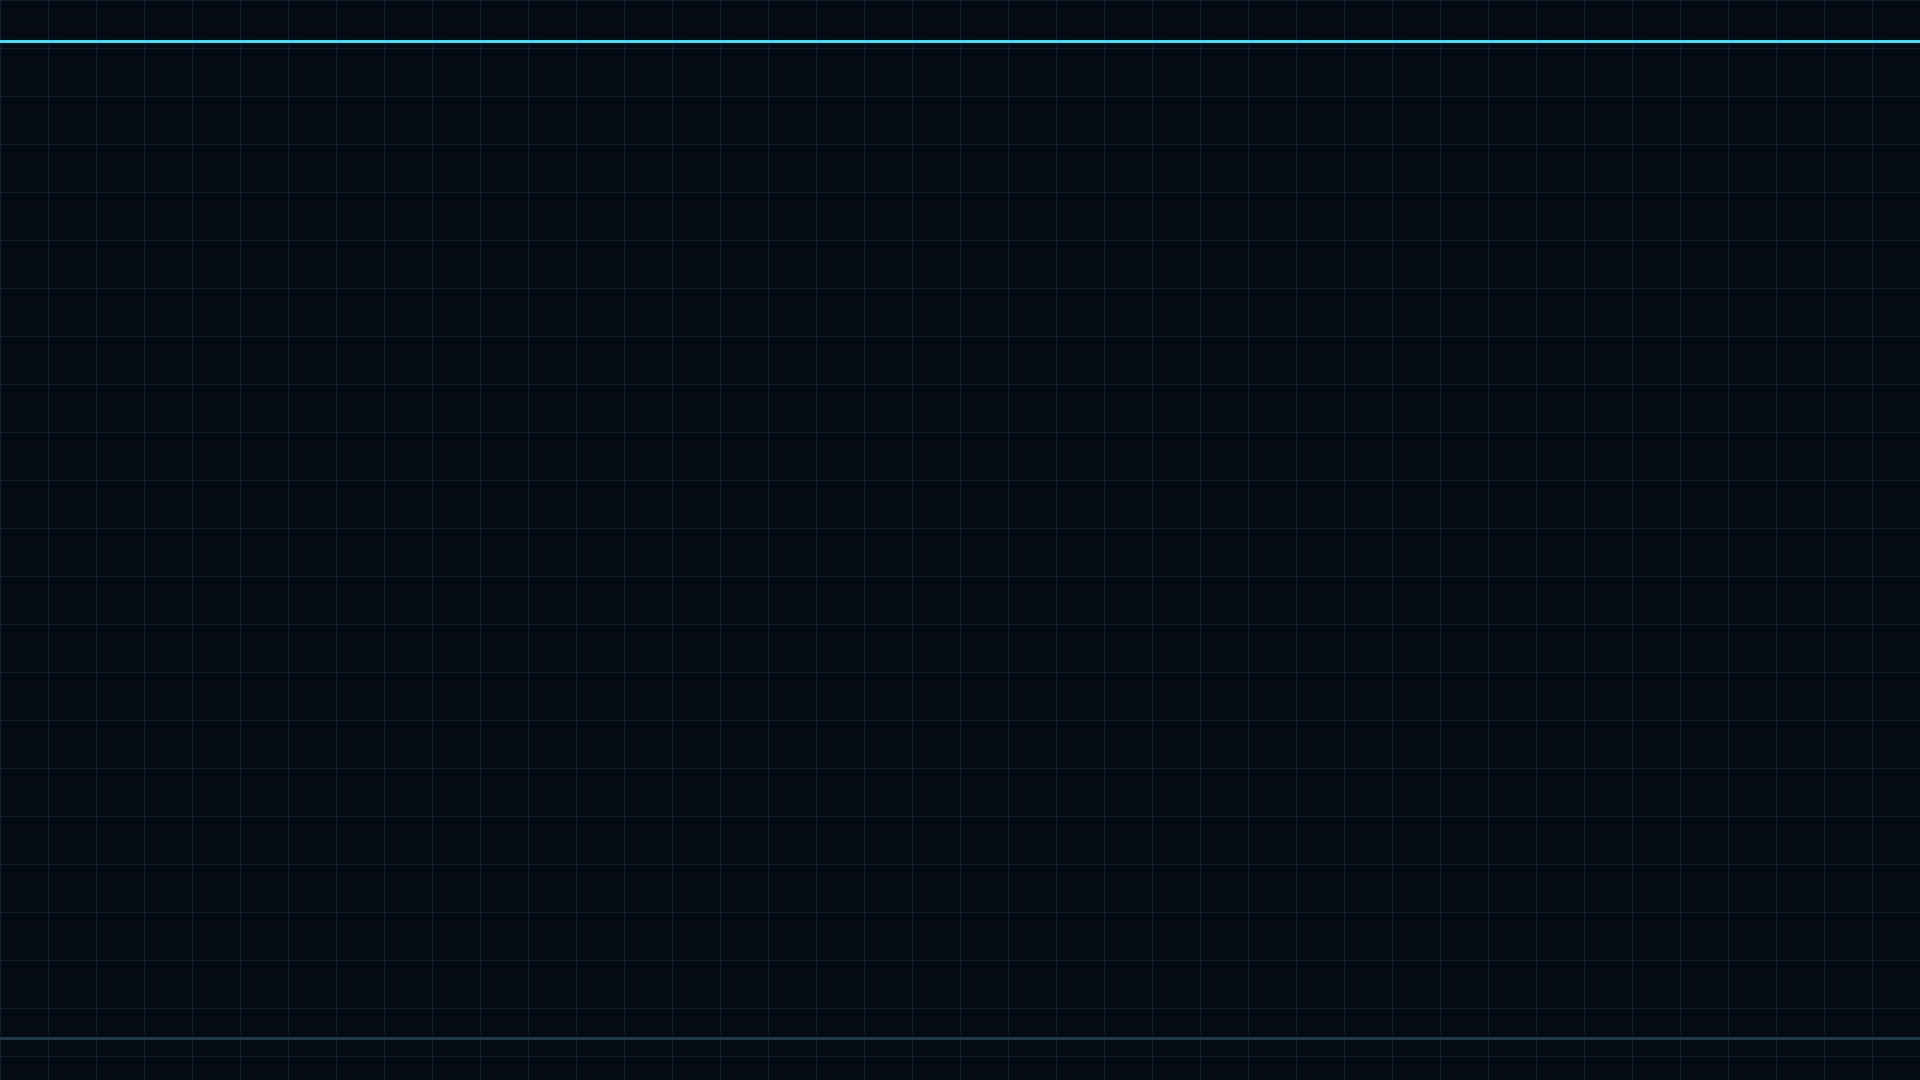
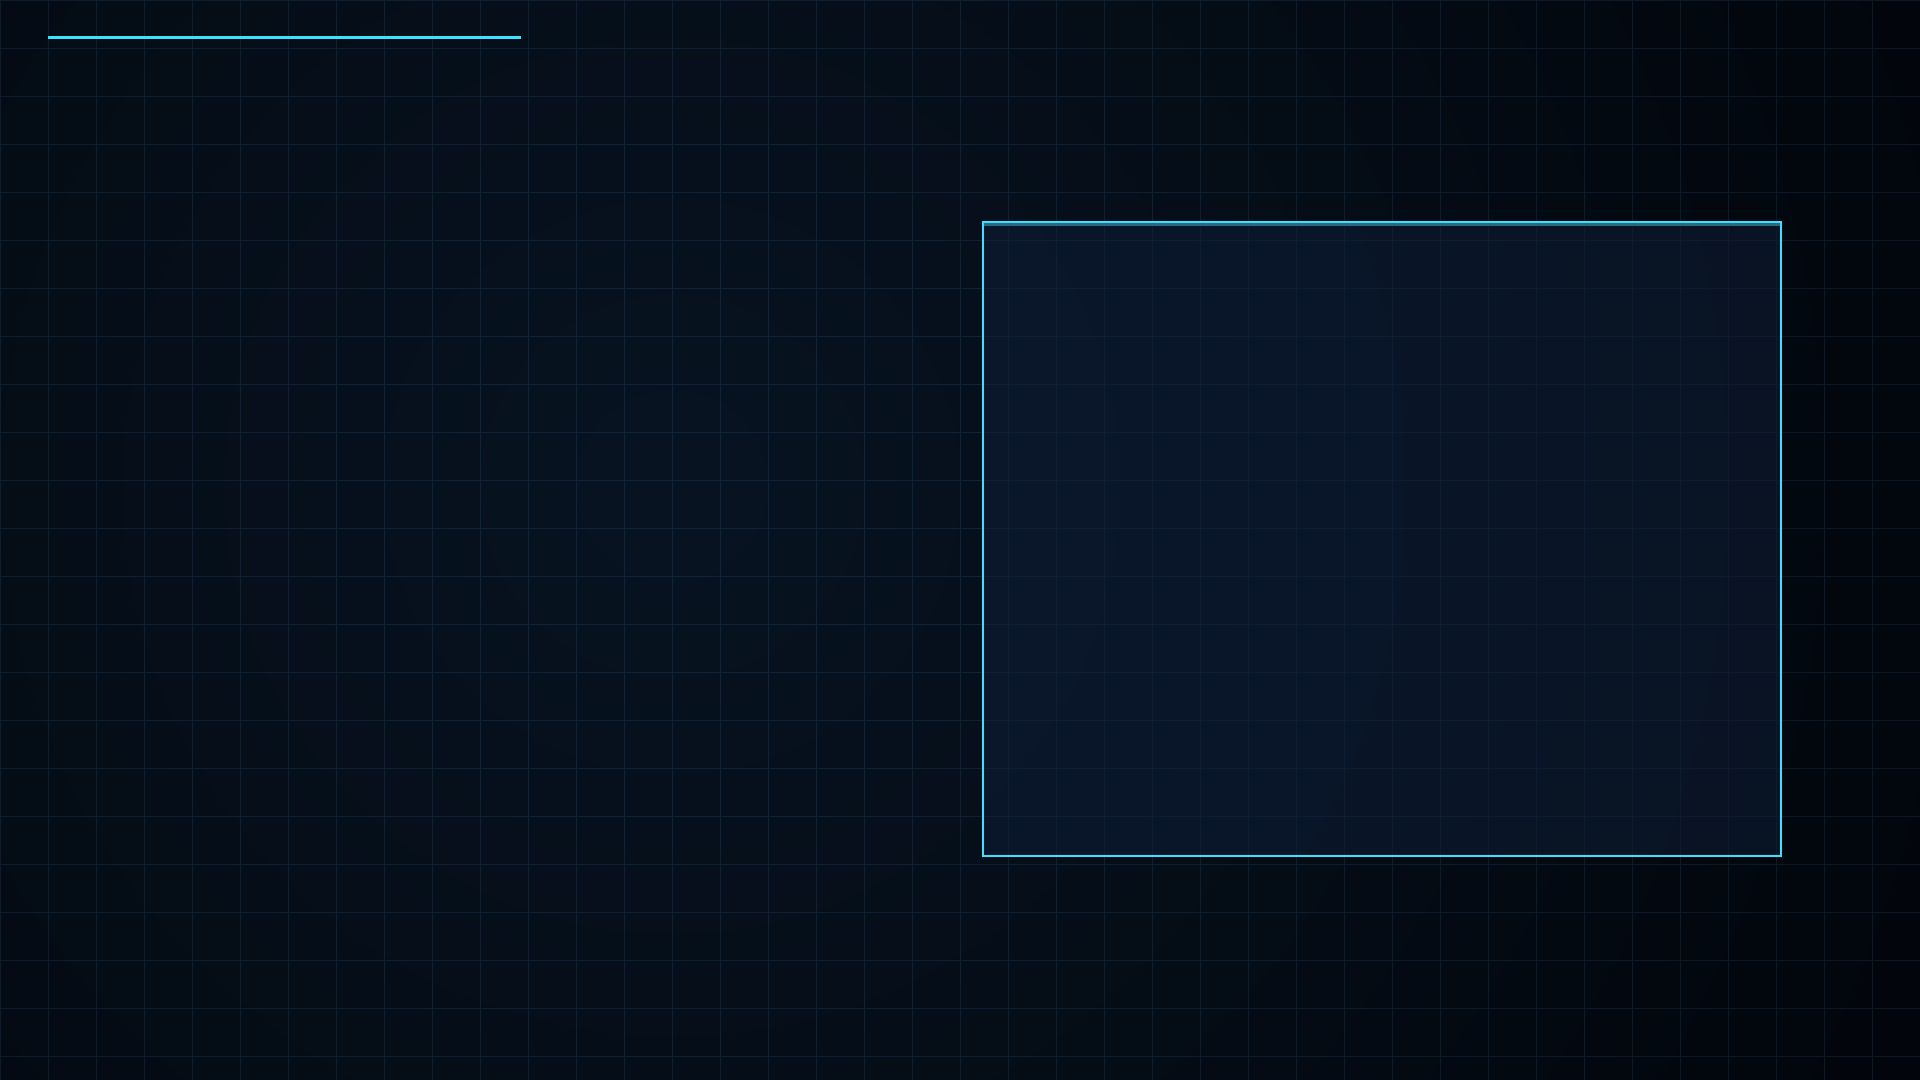
GRUB: master background + menu as overlay window
- theme.txt boot_menu as right-side window (~40%), not full-bleed
- background.png includes glass panel chrome aligned to menu rect
- Docs/canvas: same overlay pattern for splash/wizard/HUD

Changed region(s): [[0.5, 0.275, 0.5625, 0.6111], [0.5, 0.1833, 0.9375, 0.2139], [0.0, 0.0306, 0.2812, 0.0611]]

diff --git a/canvases/janis-live-distro.canvas.tsx b/canvases/janis-live-distro.canvas.tsx
@@ -67,9 +67,9 @@ export default function JanisLiveDistroCanvas() {
           <CardBody>
             <Stack gap={6}>
               <Text>background.png 1920×1080 = base di TUTTO il sistema</Text>
-              <Text>Stesso asset: GRUB → splash → wizard → HUD</Text>
-              <Text>selected_*.png + theme.txt in infra/grub/theme/</Text>
-              <Text tone="secondary">Solo layer sopra (neuroni, risorse) — non un altro mood</Text>
+              <Text>Menu = finestra sovrapposta (boot_menu ~40% destra)</Text>
+              <Text>Stesso pattern: splash/wizard/HUD = base + overlay</Text>
+              <Text tone="secondary">theme.txt + cornice nel PNG — non menu full-bleed</Text>
             </Stack>
           </CardBody>
         </Card>
@@ -92,7 +92,12 @@ export default function JanisLiveDistroCanvas() {
       <Table
         headers={["Fase", "UI", "Tech", "Note"]}
         rows={[
-          ["GRUB", "Menu stilizzato + sfondo PNG", "infra/grub + build-iso.sh", "No Three.js"],
+          [
+            "GRUB",
+            "Master BG + menu finestra overlay",
+            "theme.txt boot_menu + background.png",
+            "No Three.js",
+          ],
           [
             "Kernel + live-boot",
             "Plymouth / quiet splash",

diff --git a/docs/LIVE-DISTRO.md b/docs/LIVE-DISTRO.md
@@ -51,21 +51,33 @@ Checklist in [`infra/grub/README.md`](../infra/grub/README.md).
 
 | Superficie | Uso del background |
 |------------|-------------------|
-| **GRUB** | Immagine desktop così com’è |
+| **GRUB** | Full-bleed master; **menu = finestra sovrapposta** (non full-screen) |
 | **Neuron splash / kiosk** | Stesso asset sotto i neuroni |
 | **Wizard setup** | Stesso base; sopra HUD risorse + chat + overlay |
 | **HUD runtime** | Stesso base (o layer blur/vignette), non un altro mood |
 
 Regole: palette/griglia del PNG GRUB = contratto UI; varianti solo come **layer**; riferimento **1920×1080**; cambiando il PNG GRUB si aggiorna l’identità di tutto il boot→desktop.
 
+### Menu GRUB = finestra overlay
+
+Come i pannelli del wizard/HUD: lo sfondo resta la scena; le scelte boot stanno in un **riquadro** sopra.
+
+| Pezzo | Spec |
+|-------|------|
+| Scena | `background.png` full 1920×1080 (griglia HUD, brand a sinistra) |
+| Finestra menu | `boot_menu` in `theme.txt`: ~`left=52% top=22% width=40% height=56%` |
+| Cornice | Disegnata nel PNG (vetro scuro + bordo cyan) allineata al riquadro menu |
+| Selezione | `selected_c.png` barra item dentro la finestra |
+| Runtime UI | Stesso pattern: background master + finestre `janis-panel` sovrapposte |
+
 | File | Spec |
 |------|------|
-| `theme/background.png` | 1920×1080 · `#050B12` · cyan `#3DE0FF` · griglia HUD · **master background** |
-| `theme/selected_c.png` (o set selected_*) | Barra selezione menu |
-| `theme/theme.txt` | title JANIS, colori chiari su scuro |
+| `theme/background.png` | Master 1920×1080 + zona pannello menu a destra |
+| `theme/selected_c.png` | Barra selezione nella finestra |
+| `theme/theme.txt` | `boot_menu` dimensioni finestra (non full-bleed) |
 | Menu entries | Safe Live · Chat-ready · NVIDIA Live · info install · next disk |
 
-Niente animazione nel GRUB: profondità solo via PNG (glow, scanline finti nel bitmap).
+Niente animazione nel GRUB: profondità solo via PNG.
 
 ---
 

diff --git a/infra/grub/README.md b/infra/grub/README.md
@@ -9,6 +9,10 @@ Spec prodotto: [`docs/LIVE-DISTRO.md`](../../docs/LIVE-DISTRO.md) · canvas: `ca
 **`theme/background.png` = master background del sistema Live Distro**  
 (GRUB → splash neuroni → wizard → HUD). Stessa base ovunque; solo layer sopra, non un altro tema.
 
+**Menu = finestra sovrapposta** allo sfondo (come i panel del wizard):  
+`theme.txt` → `boot_menu` a destra (~52%/22%/40%/56%); cornice vetro/cyan disegnata nel PNG.  
+Non usare menu full-bleed.
+
 ## Requisiti server / build ISO
 
 ```bash
@@ -21,9 +25,9 @@ Usato da [`TESTER/build-iso.sh`](../../TESTER/build-iso.sh) (copia `theme/` nell
 
 | File | Stato | Spec |
 |------|-------|------|
-| `theme/theme.txt` | presente | title JANIS, menu 15%/30%, Unifont |
-| `theme/background.png` | **placeholder presente** (griglia HUD) — sostituibile con asset artistico | 1920×1080 · `#050B12` · accent `#3DE0FF` · no testo menu nel PNG |
-| `theme/selected_c.png` | **placeholder presente** | barra selezione ~800×28 |
+| `theme/theme.txt` | presente | `boot_menu` finestra overlay (non full-bleed), Unifont |
+| `theme/background.png` | placeholder + **pannello menu** a destra | 1920×1080 master · griglia · cornice overlay allineata a `boot_menu` |
+| `theme/selected_c.png` | placeholder | barra selezione ~720×32 dentro la finestra |
 | `backgrounds/janis.png` | opzionale | variante brand |
 | `backgrounds/linux.png` | opzionale | HyperFluent focus voce menu |
 